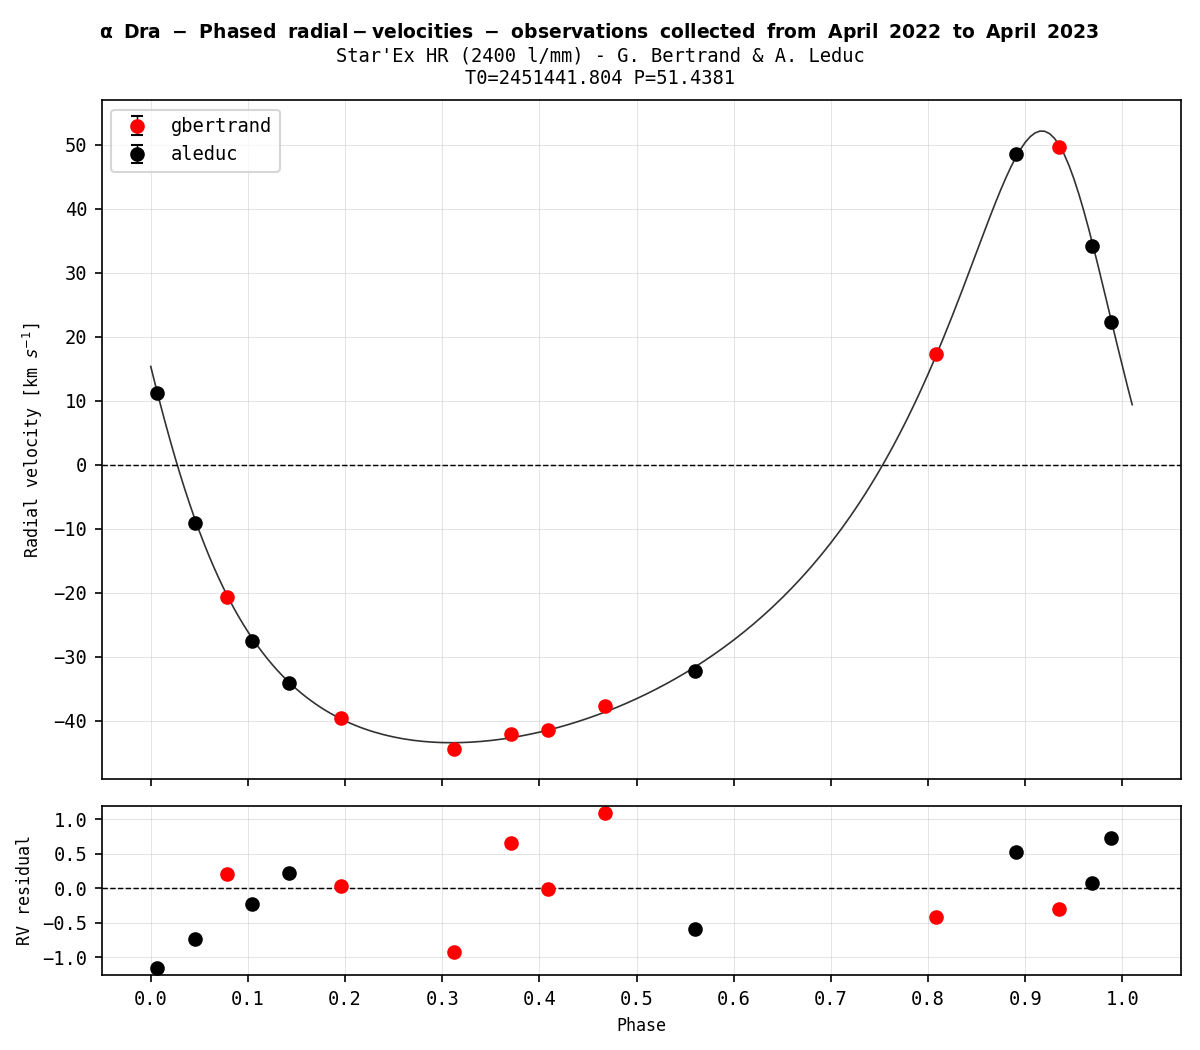
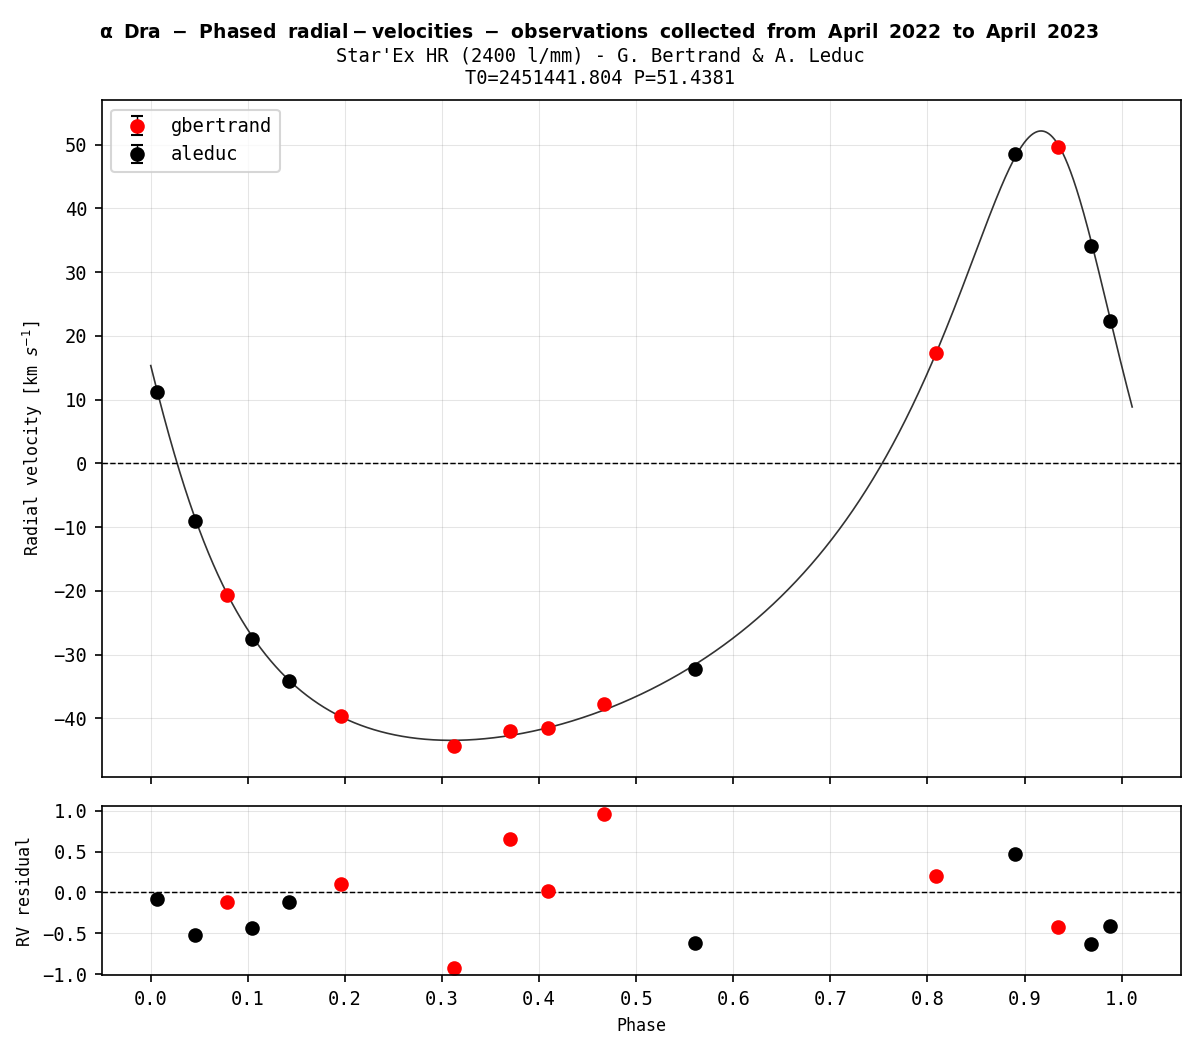
fix

diff --git a/bss.py b/bss.py
@@ -194,7 +194,7 @@ def initPlot():
     return (fig, axs)
 
 def plotRadialVelocityCurve(ax, v0, K, e, w, jd0,color="red", lw=0.5, alpha=1, label=""):
-    model_x = np.arange(0,1.011, 0.005)
+    model_x = np.arange(0,1.011, 0.0001)
     model_y = list(map(lambda x: computeRadialVelocityCurve(x,jd0,K,e,w,v0), model_x))
     ax.plot(model_x, model_y, color, alpha=alpha, lw=lw, label=label)
     return (model_x, model_y)
